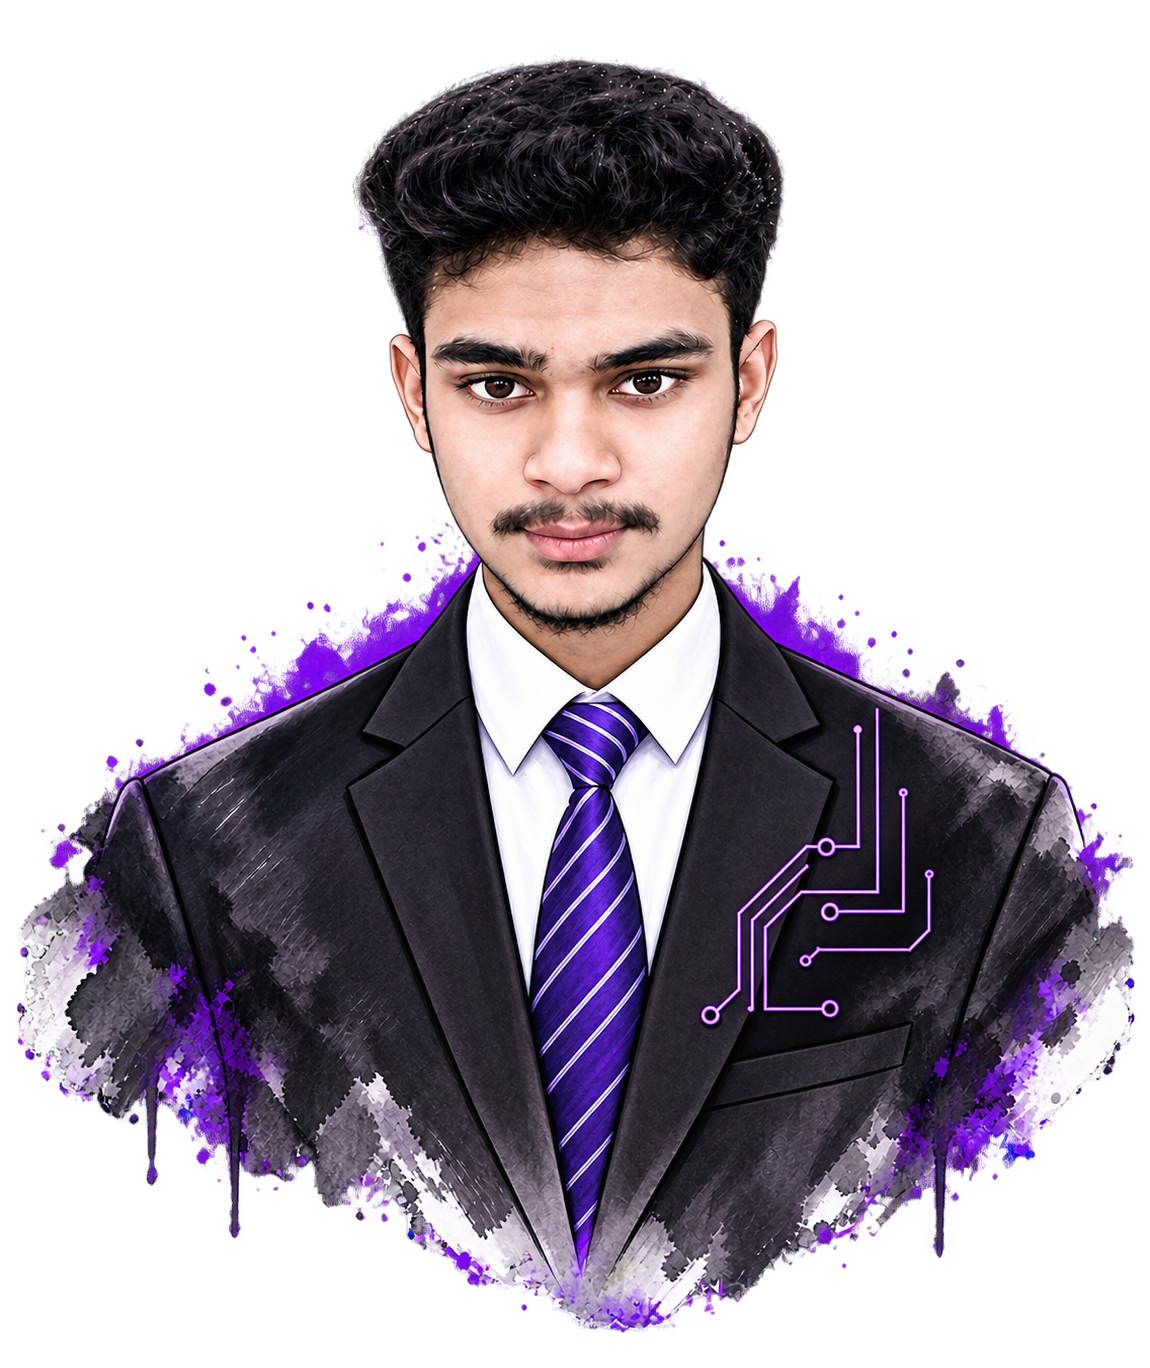
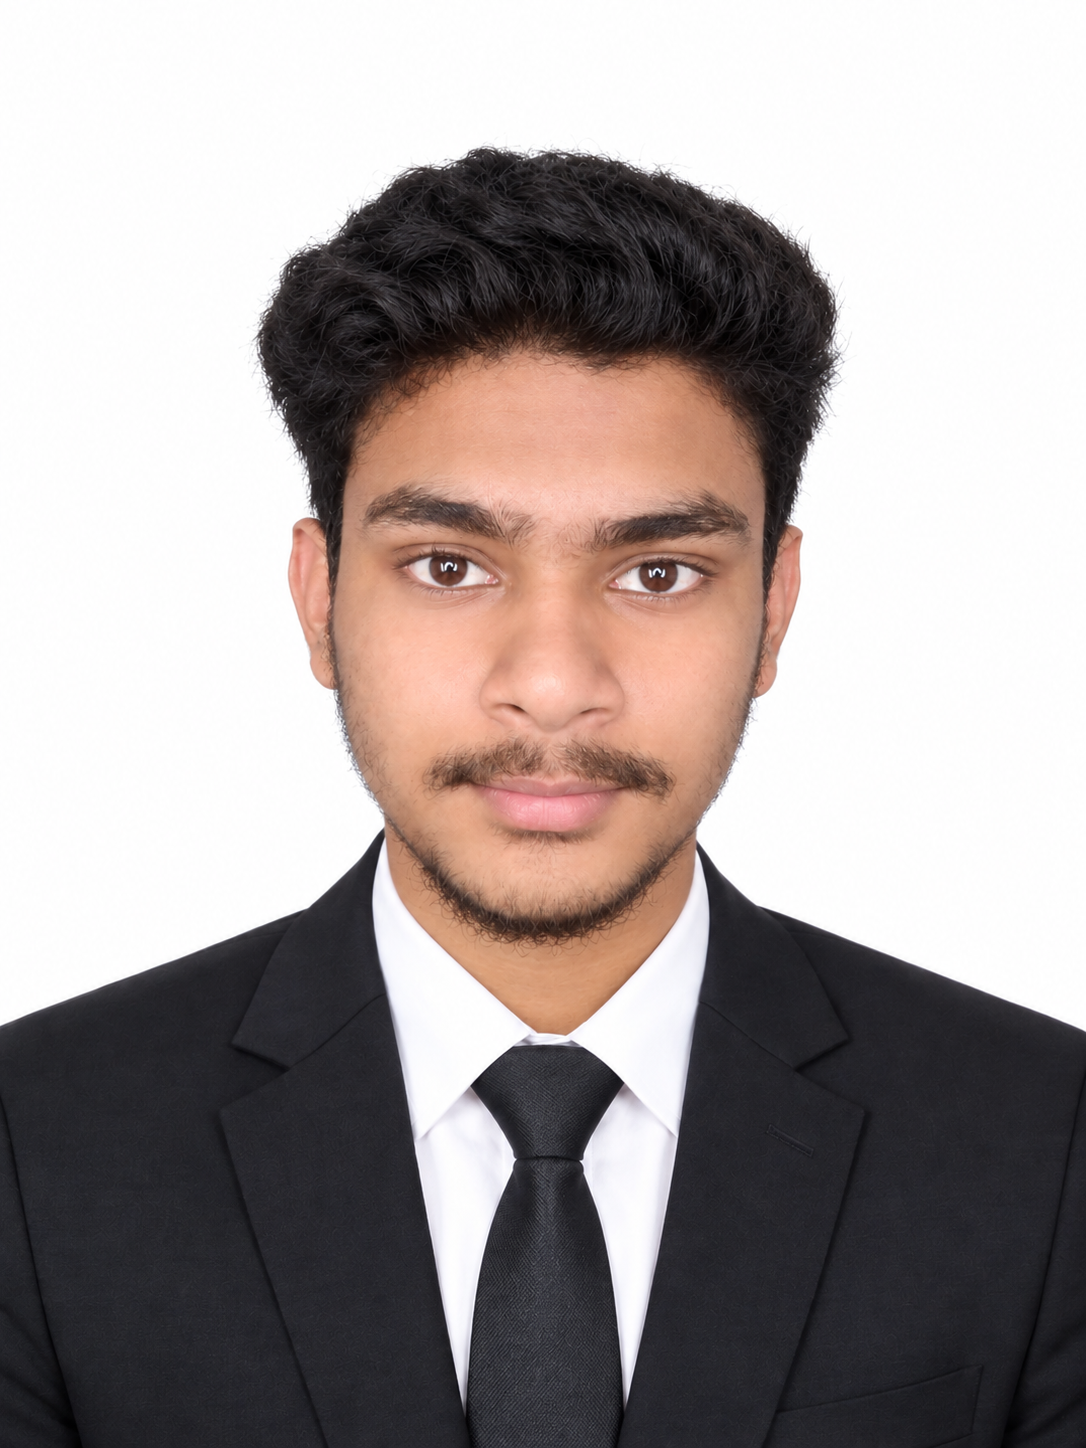
Updated: Hero section image

diff --git a/src/components/HeroSection.jsx b/src/components/HeroSection.jsx
@@ -1,20 +1,11 @@
 "use client";
 
 import { useState } from "react";
+import Image from "next/image";
 import Link from "next/link";
-import dynamic from "next/dynamic";
+import { motion } from "framer-motion";
 import { FiArrowRight, FiDownload, FiMail, FiCheck, FiCopy } from "react-icons/fi";
 import { personalInfo } from "@/data/portfolioData";
-
-// Dynamic client import for subtle 3D interactive hero centerpiece
-const Hero3DVisual = dynamic(() => import("./Hero3DVisual"), {
-  ssr: false,
-  loading: () => (
-    <div className="w-full aspect-square max-w-[380px] mx-auto flex items-center justify-center">
-      <div className="w-32 h-32 rounded-full border border-indigo-500/20 animate-pulse" />
-    </div>
-  ),
-});
 
 export default function HeroSection() {
   const [copied, setCopied] = useState(false);
@@ -116,14 +107,73 @@ export default function HeroSection() {
             </div>
           </div>
 
-          {/* Right Visual Column (Interactive Subtle 3D Graphic) */}
+          {/* Right Visual Column (Animated Profile Image) */}
           <div className="lg:col-span-5 flex flex-col items-center justify-center">
-            <div className="card-surface p-6 sm:p-8 w-full max-w-md bg-white dark:bg-[#0F172A]/70 backdrop-blur-sm border-slate-200 dark:border-white/[0.08]">
-              {/* Subtle 3D interaction */}
-              <Hero3DVisual />
+            <div className="card-surface p-5 sm:p-7 w-full max-w-md bg-white dark:bg-[#0F172A]/70 backdrop-blur-sm border-slate-200 dark:border-white/[0.08]">
+              
+              {/* Animated Profile Image Centerpiece */}
+              <div className="relative w-full max-w-[340px] sm:max-w-[360px] mx-auto py-3">
+                {/* Ambient glowing backdrop aura */}
+                <div
+                  className="absolute -inset-2 bg-gradient-to-tr from-indigo-500/25 via-purple-500/20 to-emerald-500/20 rounded-3xl blur-2xl opacity-75 pointer-events-none"
+                  aria-hidden="true"
+                />
+
+                {/* Floating motion container */}
+                <motion.div
+                  animate={{ y: [-4, 4, -4] }}
+                  transition={{ duration: 6, repeat: Infinity, ease: "easeInOut" }}
+                  className="relative group"
+                >
+                  {/* Subtle animated border glow on hover */}
+                  <div className="absolute -inset-0.5 rounded-2xl bg-gradient-to-r from-indigo-500/40 via-purple-500/30 to-emerald-500/40 opacity-40 group-hover:opacity-100 blur-sm transition-opacity duration-500" />
+
+                  {/* Main Image Frame */}
+                  <div className="relative aspect-[4/5] w-full rounded-2xl overflow-hidden bg-slate-100 dark:bg-[#090D16] border border-slate-200 dark:border-white/[0.1] shadow-xl">
+                    <Image
+                      src={personalInfo.profileImage}
+                      alt={personalInfo.name}
+                      fill
+                      priority
+                      sizes="(max-width: 1024px) 340px, 360px"
+                      className="object-cover object-top transition-transform duration-700 ease-out group-hover:scale-105"
+                    />
+
+                    {/* Gentle gradient overlay for contrast */}
+                    <div className="absolute inset-0 bg-gradient-to-t from-slate-950/40 via-transparent to-transparent opacity-60 pointer-events-none" />
+                  </div>
+
+                  {/* Floating Micro Badge - Status */}
+                  <motion.div
+                    animate={{ y: [0, -6, 0] }}
+                    transition={{ duration: 4, repeat: Infinity, ease: "easeInOut" }}
+                    className="absolute -top-3 -right-2 sm:-right-3 z-10 px-3 py-1.5 rounded-full bg-white/95 dark:bg-[#0F172A]/95 backdrop-blur-md border border-emerald-500/30 dark:border-emerald-400/30 shadow-lg flex items-center gap-2"
+                  >
+                    <span className="relative flex h-2 w-2">
+                      <span className="animate-ping absolute inline-flex h-full w-full rounded-full bg-emerald-400 opacity-75" />
+                      <span className="relative inline-flex rounded-full h-2 w-2 bg-emerald-500" />
+                    </span>
+                    <span className="text-[11px] font-mono font-medium text-slate-800 dark:text-slate-200">
+                      Available for hire
+                    </span>
+                  </motion.div>
+
+                  {/* Floating Micro Badge - Role / Tech */}
+                  <motion.div
+                    animate={{ y: [0, 6, 0] }}
+                    transition={{ duration: 4.5, repeat: Infinity, ease: "easeInOut", delay: 0.5 }}
+                    className="absolute -bottom-3 -left-2 sm:-left-3 z-10 px-3 py-1.5 rounded-full bg-white/95 dark:bg-[#0F172A]/95 backdrop-blur-md border border-indigo-500/30 dark:border-indigo-400/30 shadow-lg flex items-center gap-2"
+                  >
+                    <span className="text-xs text-indigo-500 dark:text-indigo-400">⚡</span>
+                    <span className="text-[11px] font-mono font-medium text-slate-800 dark:text-slate-200">
+                      MERN &amp; Next.js
+                    </span>
+                  </motion.div>
+                </motion.div>
+              </div>
 
               {/* Core stack tags under visual */}
-              <div className="mt-4 pt-4 border-t border-slate-200 dark:border-white/[0.06] text-center space-y-2">
+              <div className="mt-5 pt-4 border-t border-slate-200 dark:border-white/[0.06] text-center space-y-2">
                 <p className="font-mono text-[11px] uppercase tracking-wider text-slate-500 dark:text-slate-400">
                   Primary Technology Stack
                 </p>
@@ -138,6 +188,7 @@ export default function HeroSection() {
                   ))}
                 </div>
               </div>
+
             </div>
           </div>
 

diff --git a/src/data/portfolioData.js b/src/data/portfolioData.js
@@ -22,7 +22,7 @@ export const personalInfo = {
   location: "Rangpur, Bangladesh · GMT+6",
   availabilityNotice: "Open for freelance & full-time roles · Accepting new projects from Q3 2026 · Reply within 24h",
   stats: [
-    { value: "04+", label: "Years Exp." },
+    { value: "02+", label: "Years Exp." },
     { value: "35+", label: "Projects" },
     { value: "100%", label: "Satisfaction" },
   ],
